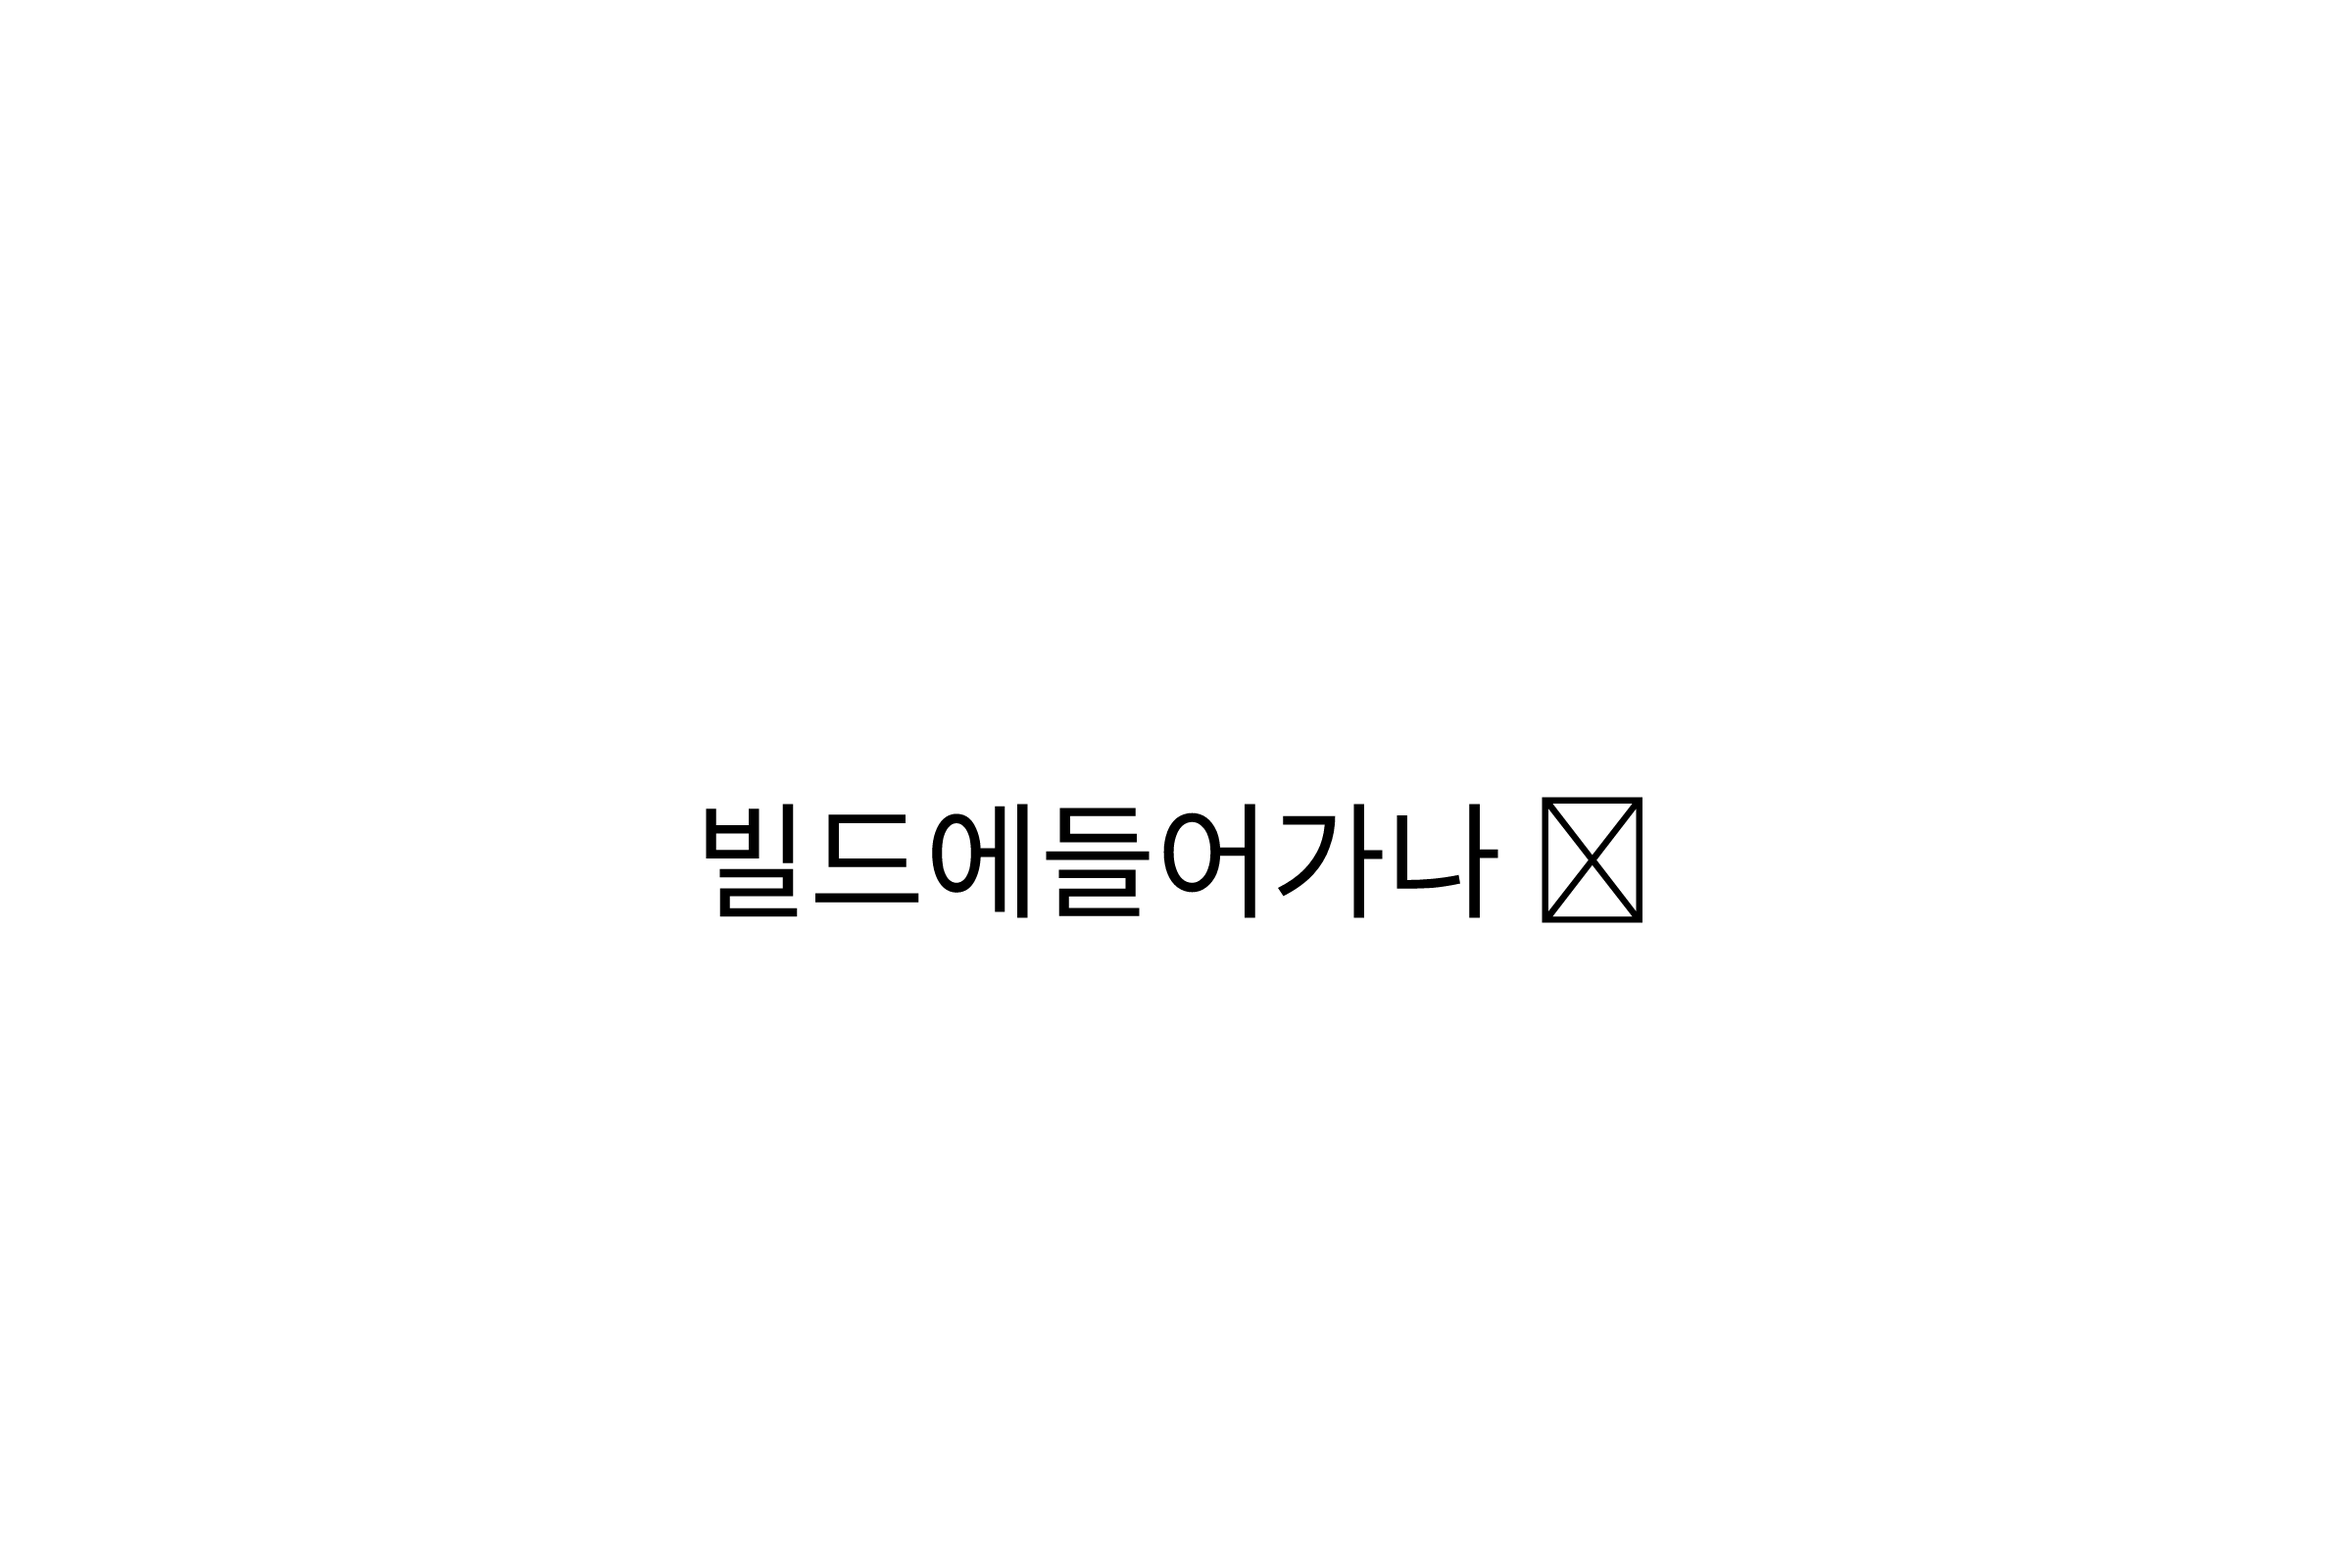
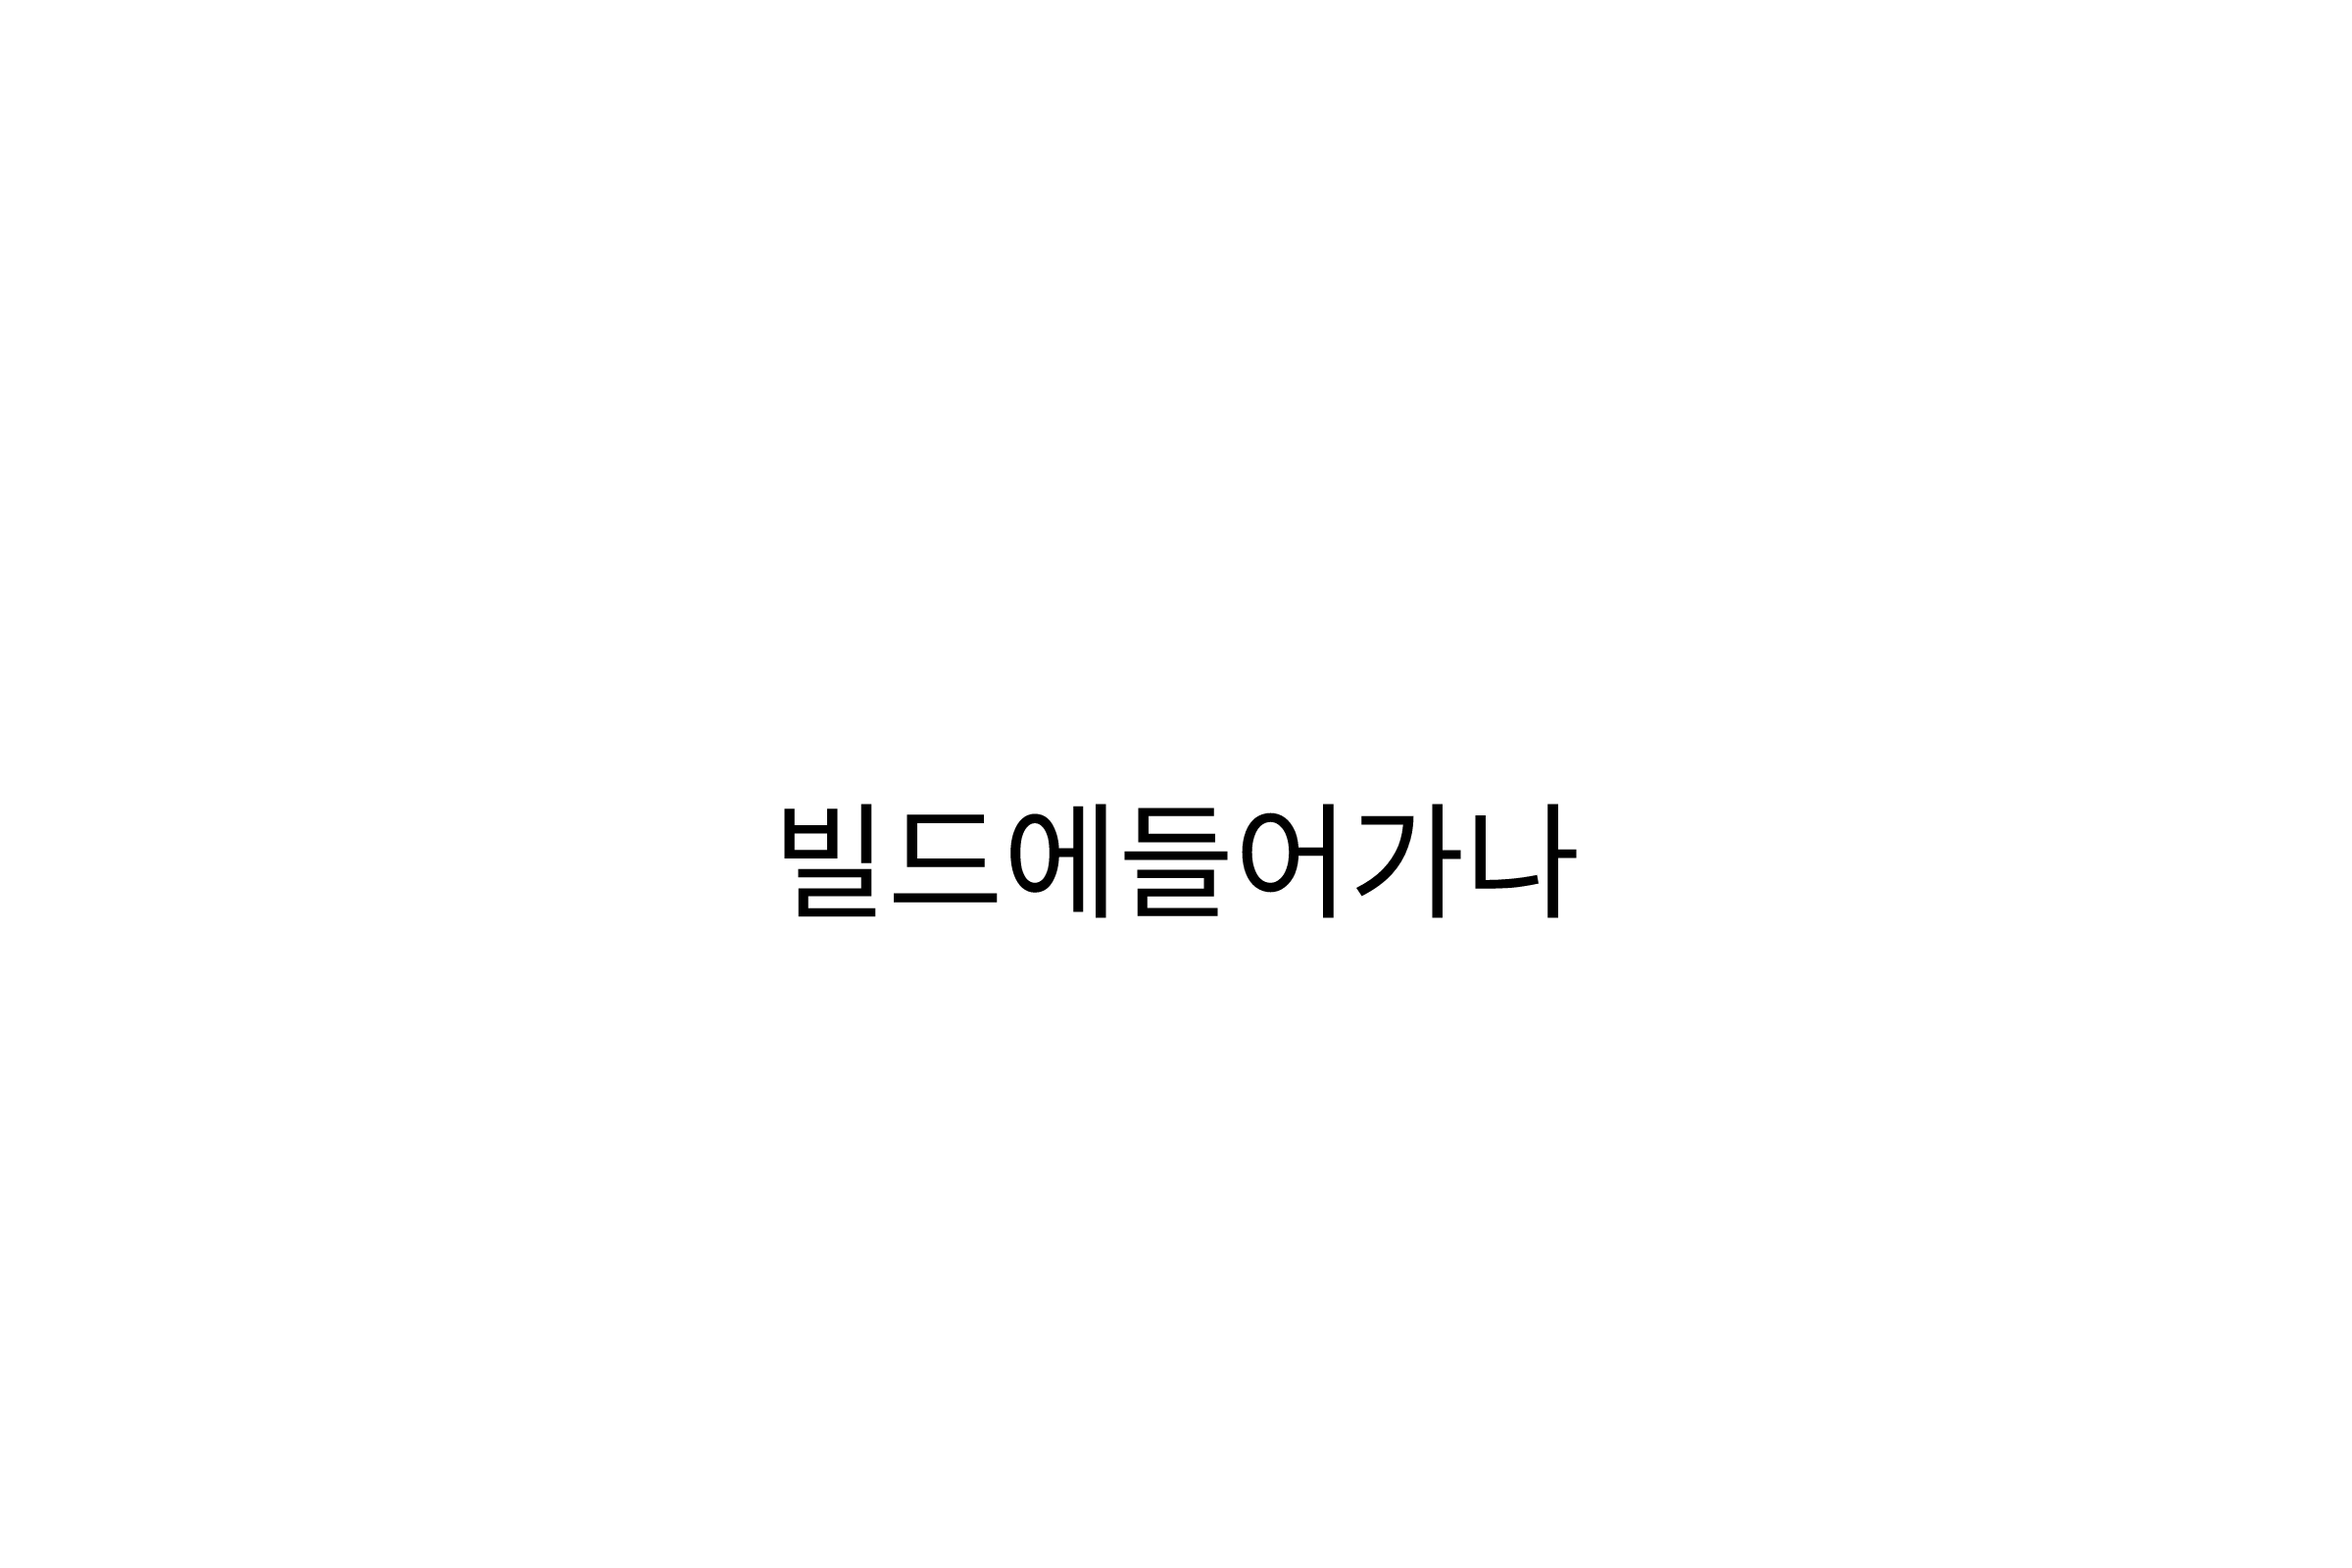
feat: use metadat generator

Changed region(s): [[0.2812, 0.5, 0.7188, 0.5938]]

diff --git a/src/app/page.tsx b/src/app/page.tsx
@@ -3,72 +3,77 @@ import path from "path";
 import fs, { promises } from "fs";
 import satori from "satori";
 import { Transformer } from "@napi-rs/image";
+import Image from "next/image";
 
 export const dynamic = "force-static";
 
-// export async function generateMetadata(
-//   {},
-//   parent: ResolvingMetadata
-// ): Promise<Metadata> {
-//   const fontPath = path.resolve("./src/fonts/NotoSansKR-Regular.ttf");
-//   const font = fs.readFileSync(fontPath);
-//   const svg = await satori(
-//     <div
-//       style={{
-//         height: "100%",
-//         width: "100%",
-//         display: "flex",
-//         flexDirection: "column",
-//         alignItems: "center",
-//         justifyContent: "center",
-//         backgroundColor: "#fff",
-//         fontSize: 32,
-//         fontWeight: 600,
-//       }}
-//     >
-//       <div style={{ marginTop: 40 }}>빌드에들어가나 🐰</div>
-//     </div>,
-//     {
-//       width: 600,
-//       height: 400,
-//       fonts: [
-//         {
-//           name: "NotoSansKR-Regular",
-//           data: font,
-//           weight: 400,
-//           style: "normal",
-//         },
-//       ],
-//     }
-//   );
+export async function generateMetadata(
+  {},
+  parent: ResolvingMetadata
+): Promise<Metadata> {
+  const fontPath = path.resolve("./src/fonts/NotoSansKR-Regular.ttf");
+  const font = fs.readFileSync(fontPath);
+  const svg = await satori(
+    <div
+      style={{
+        height: "100%",
+        width: "100%",
+        display: "flex",
+        flexDirection: "column",
+        alignItems: "center",
+        justifyContent: "center",
+        backgroundColor: "#fff",
+        fontSize: 32,
+        fontWeight: 600,
+      }}
+    >
+      <div style={{ marginTop: 40 }}>빌드에들어가나</div>
+    </div>,
+    {
+      width: 600,
+      height: 400,
+      fonts: [
+        {
+          name: "NotoSansKR-Regular",
+          data: font,
+          weight: 400,
+          style: "normal",
+        },
+      ],
+    }
+  );
 
-//   const transformer = Transformer.fromSvg(svg);
-//   const png = await transformer.png();
+  const transformer = Transformer.fromSvg(svg);
+  const png = await transformer.png();
 
-//   await promises.writeFile("./public/og.png", png);
+  await promises.writeFile("./public/og.svg", svg);
+  await promises.writeFile("./public/og.png", png);
 
-//   return {
-//     title: "OG Satori Example",
-//     description: "This is an example of using Satori to generate OG images 🐰",
-//     openGraph: {
-//       images: "./og.png",
-//     },
-//   };
-// }
+  return {
+    title: "OG Satori Example",
+    description: "This is an example of using Satori to generate OG images 🐰",
+    openGraph: {
+      images: "./og.png",
+    },
+  };
+}
 
-export const metadata: Metadata = {
-  title: "OG Satori Example",
-  description: "This is an example of using Satori to generate OG images 🐰",
-  openGraph: {
-    images: "./og.png",
-  },
-};
+// export const metadata: Metadata = {
+//   title: "OG Satori Example",
+//   description: "This is an example of using Satori to generate OG images 🐰",
+//   openGraph: {
+//     images: "./og.png",
+//   },
+// };
 
 export default async function Home() {
   return (
     <main className="flex min-h-screen flex-col items-center justify-between p-24">
       check out the og image 🐰
-      <img src="./og.png" />
+      <img src="./og.png" alt={"og.png"} />
+      <hr />
+      svg??? 🐰
+      <Image src="./og.svg" alt={"og.svg"} />
     </main>
   );
 }
